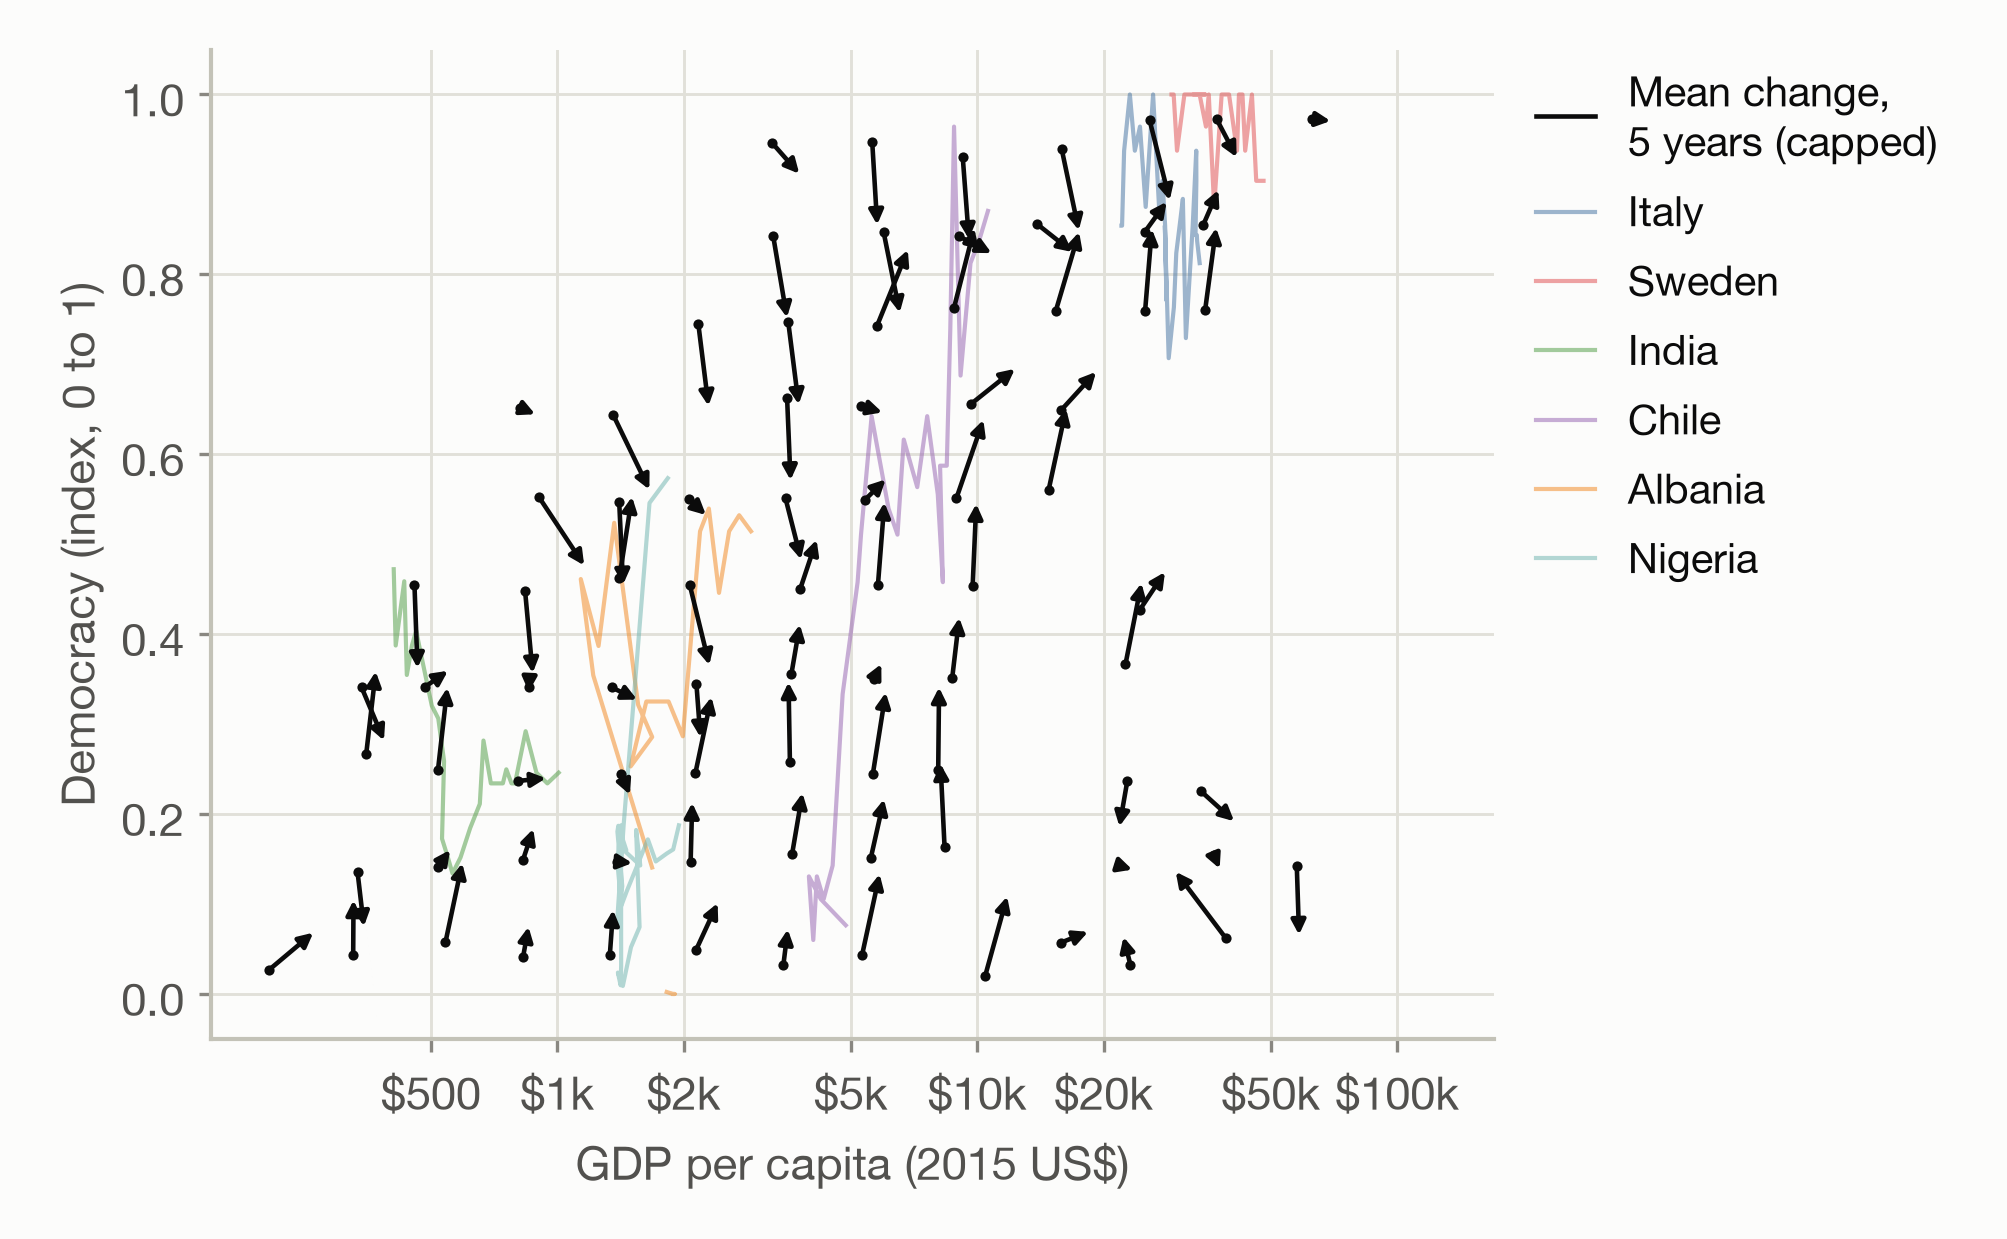
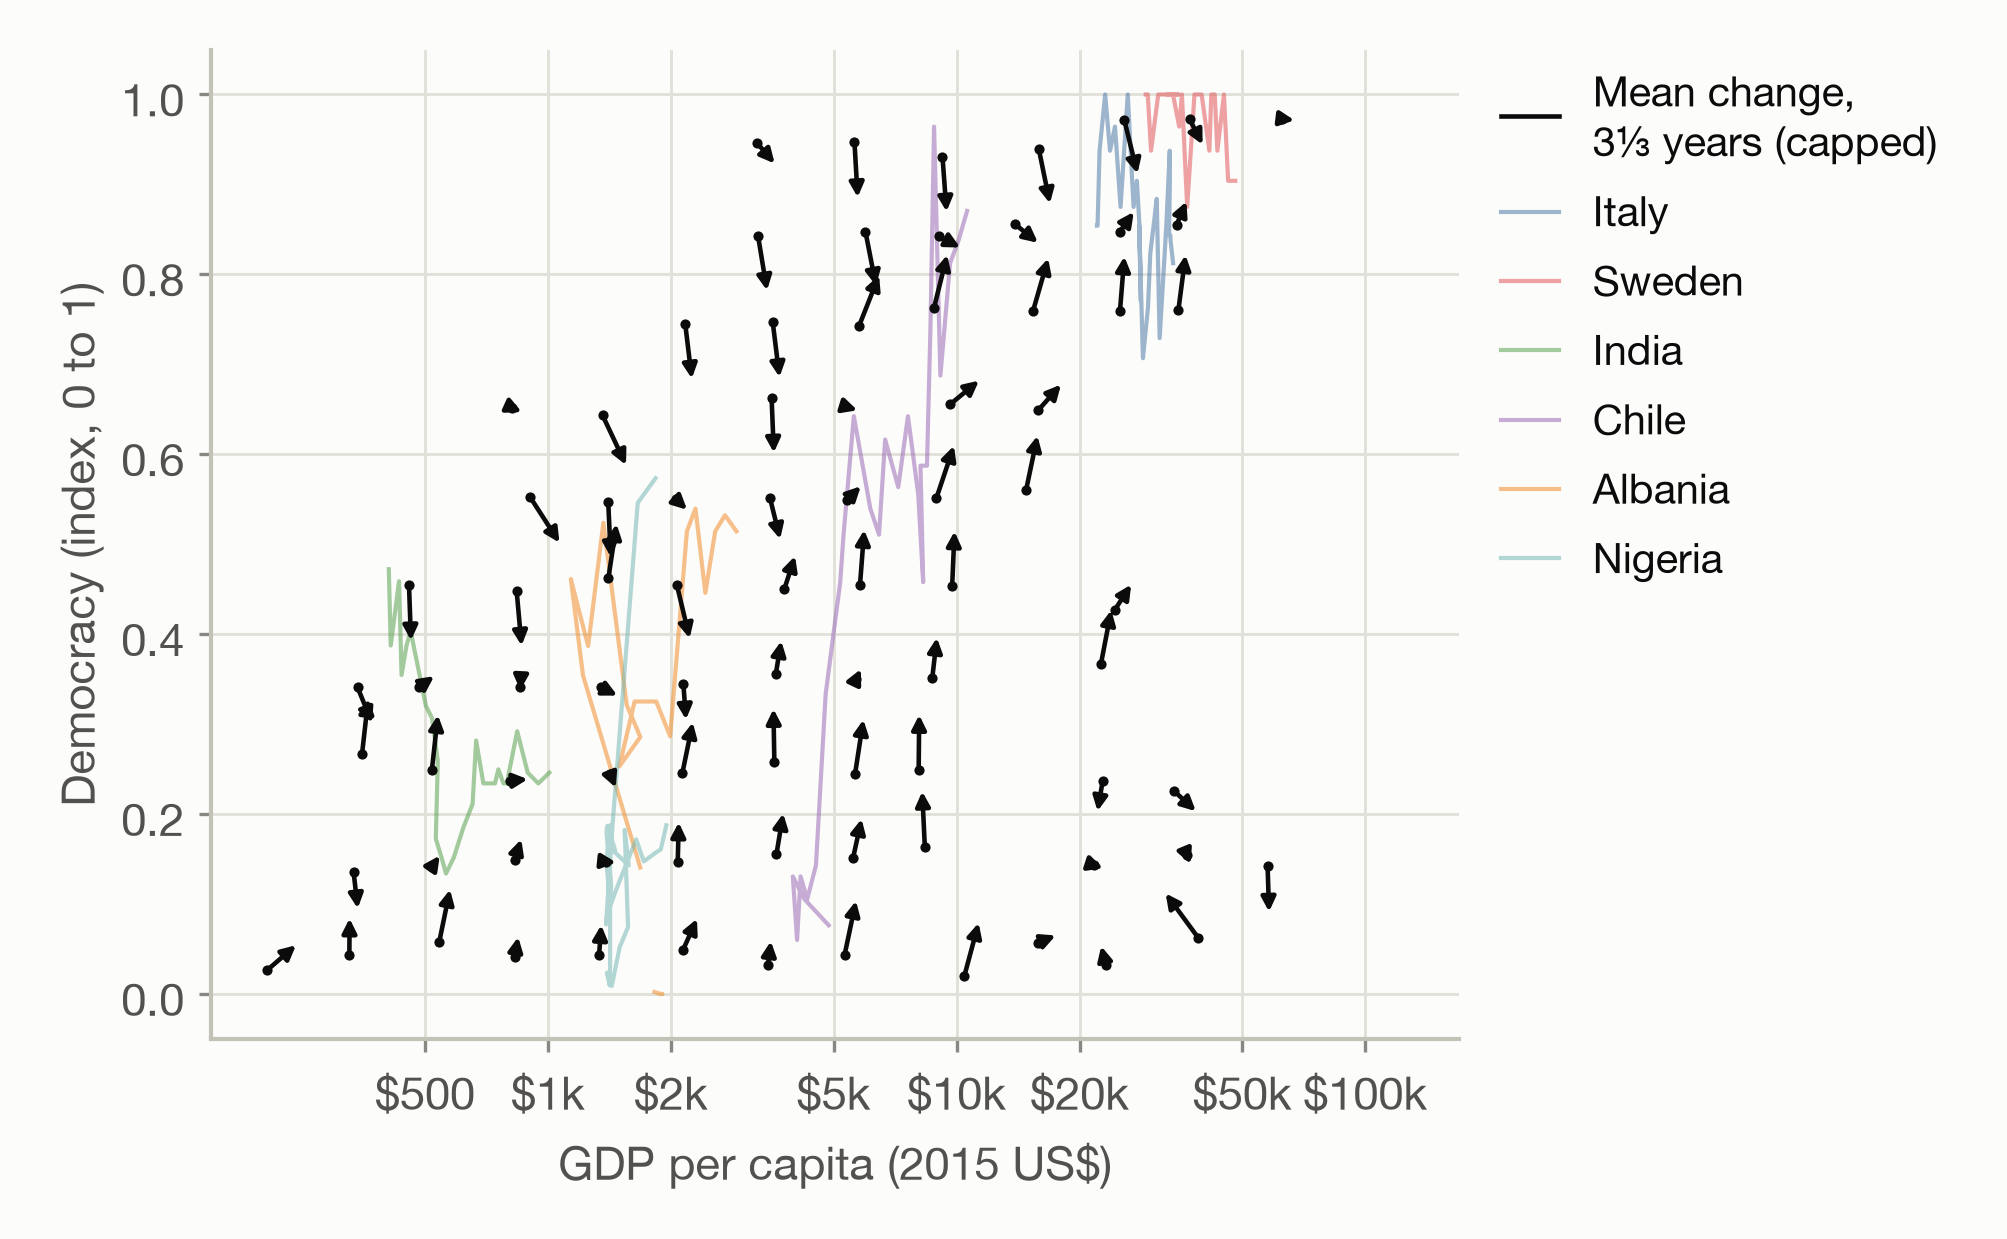
Step 3: Figure 3 arrows at two thirds length (3 1/3 years, cap 0.47 cm)

diff --git a/Code/05_fig_data_phase_portrait.py b/Code/05_fig_data_phase_portrait.py
@@ -23,8 +23,9 @@ from matplotlib.lines import Line2D
 from sds_common import (CM, D_LABEL, G_SCALE, GDP_LABEL, OUT, REP, REP_COLOUR,
                         YEARS, USD_XLIM, dollar_axis, load_panel, save, style)
 
-K = 5          # arrow = average yearly change x K years
-CAP_CM = 0.7   # maximum drawn arrow length, cm on the page (~ one grid cell); longer
+LENGTH = 2 / 3  # user: two thirds of the 5-year, 0.7 cm version (locked format)
+K = 5 * LENGTH  # arrow = average yearly change x K years (3 1/3)
+CAP_CM = 0.7 * LENGTH  # maximum drawn arrow length, cm on the page (~ one grid cell); longer
                # arrows are shortened to this length with their direction unchanged
 MIN_N = 10     # minimum observed changes for a cell to get an arrow
 G_EDGES = np.arange(0.42, 1.00 + 1e-9, 0.04)   # G = ln(GDP)/12; 0.04 in G = x1.62 in GDP
@@ -48,7 +49,7 @@ counts = [
     f"grid: {len(G_EDGES)-1} G bins of 0.04 x {len(D_EDGES)-1} D bins of 0.1",
     f"occupied cells: {len(cells)}; cells with >= {MIN_N} changes (arrows): {len(shown)}",
     f"changes in cells with arrows: {int(shown.n.sum())} of {len(ch)}",
-    f"arrow scale K = {K} years",
+    f"arrow scale K = {K:.4f} years",
     f"mean yearly dD over all changes: {ch.dD.mean():.4f}; mean yearly dG: {ch.dG.mean():.5f}"
     f" (= {100*(np.exp(G_SCALE*ch.dG.mean())-1):.2f}% GDP growth per year)",
 ]
@@ -72,7 +73,7 @@ for theme_name in ("light", "dark"):
     ax.set_ylabel(D_LABEL)
     handles, labels = ax.get_legend_handles_labels()
     handles = [Line2D([0], [0], color=arrow_col, lw=1.1)] + handles
-    labels = [f"Mean change,\n{K} years (capped)"] + labels
+    labels = ["Mean change,\n3⅓ years (capped)"] + labels
     ax.legend(handles, labels, loc="upper left", bbox_to_anchor=(1.02, 1.0),
               frameon=False, handlelength=1.4, borderaxespad=0.0)
     fig.tight_layout()
@@ -99,7 +100,7 @@ for theme_name in ("light", "dark"):
         ax.scatter([x0], [y0], s=6, color=arrow_col, zorder=5, lw=0)
     if theme_name == "light":
         with open(OUT / "05_phase_portrait_counts.txt", "a") as fh:
-            fh.write(f"arrow cap: {CAP_CM} cm on the page; arrows shortened to the cap: "
+            fh.write(f"arrow cap: {CAP_CM:.3f} cm on the page; arrows shortened to the cap: "
                      f"{int(n_capped)} of {len(shown)}\n")
         print(f"capped: {int(n_capped)} of {len(shown)}")
     path = save(fig, "fig3_data_phase_portrait", theme_name)

diff --git a/Appendix.md b/Appendix.md
@@ -176,7 +176,7 @@ Made by `Code/05_fig_data_phase_portrait.py`. Counts from `Code/outputs/05_phase
   - Each arrow starts at the mean $(G, D)$ of the cell's country-years and points along their mean $(\Delta G, \Delta D)$ times $K$.
   - Both components are scaled by the same $K$ in model units, so directions are true on these axes. On the dollar axis the horizontal length is proportional GDP growth.
 - **Choices after the first render.** The first draft used $K = 5$ years and at least 5 changes per cell. Arrows ran through neighbouring cells, and cells with few changes gave erratic averages (for example near \$100k). The cell-average $|\Delta D|$ has median 0.013 and 90th percentile 0.044. With $K = 2$, the 90th percentile arrow is about one cell high (0.09). Raising the minimum from 5 to 10 changes per cell drops 15 cells: from 98 to 83 arrows, and from 3,397 to 3,289 changes represented. Superseded: $K = 5$, at least 5 changes.
-- **Longer, capped arrows (at the user's request).** "The arrows should be longer, but with a max on them. So we can better see the direction." Arrows are now drawn at $K = 5$ years. Any arrow longer than 0.7 cm on the page (about one cell, `CAP_CM`) is shortened to 0.7 cm by one factor applied to both components. The horizontal axis is linear in $G$, so the direction on the page is unchanged. 33 of the 83 arrows are shortened. The cap is measured after layout, in centimetres on the page, so the count depends on the axes' size. Widening the legend label to "(capped)" first narrowed the axes, changing the count from 31 to 29 and making the \$50k and \$100k ticks collide. The label was split over two lines to restore the width (33 capped). Superseded: $K = 2$ with no cap.
+- **Longer, capped arrows (at the user's request).** "The arrows should be longer, but with a max on them. So we can better see the direction." Arrows are now drawn at $K = 5$ years. Any arrow longer than 0.7 cm on the page (about one cell, `CAP_CM`) is shortened to 0.7 cm by one factor applied to both components. The horizontal axis is linear in $G$, so the direction on the page is unchanged. 33 of the 83 arrows are shortened. The cap is measured after layout, in centimetres on the page, so the count depends on the axes' size. Widening the legend label to "(capped)" first narrowed the axes, changing the count from 31 to 29 and making the \$50k and \$100k ticks collide. The label was split over two lines to restore the width (33 capped). Superseded: $K = 2$ with no cap. Then, at the user's request ("two thirds of length and it is perfect"), both the length and the cap were multiplied by 2/3: $K = 3\tfrac13$ years and a cap of 0.467 cm. The same 33 of 83 arrows are capped, because both scale together. This version is locked in the contract (`Report Format`). Superseded: $K = 5$, cap 0.7 cm.
 - **Shared axis range.** Figures 2 and 3 now share a fixed GDP range, \$150 to \$170,000 (`USD_XLIM` in `sds_common.py`), so the two can be laid over each other. The first draft of Figure 3 was cut at the grid edges, and with its longer legend label the \$50k and \$100k ticks collided.
 - **Not used in the report.** Over all changes, the mean yearly change is 0.0023 in democracy and 0.00141 in $G$, which is 1.70% growth in GDP per capita a year.
 
@@ -203,6 +203,7 @@ Made by `Code/05_fig_data_phase_portrait.py`. Counts from `Code/outputs/05_phase
 | 15 | Step 3. At the user's request, dropped the mean from Figures 1 and 2: "We don't need it". A contract change locks the figure format: no mean, the user's style in the workspace themes, dollar log axes, axis labels with units, the legend off the data. Figures 1 and 2 and their scripts are the reference. It also adds "always use units when available". Figures redrawn; the `Results` paragraph and captions updated. | `instructions.md`; Figures 1–2; `Report.md` |
 | 16 | Step 3. Made Figure 3, the data phase portrait: cell-average yearly changes on a 14 × 10 grid, arrows scaled to 2 years, cells with at least 10 changes (83 cells, 3,289 of 3,423 changes). It was redrawn once after inspection (first draft: 5 years, at least 5 changes). Figures 2 and 3 now share a fixed GDP range. Added to `Results` with a reading paragraph and caption. | `Code/05_fig_data_phase_portrait.py`; `Report.md` `Results` |
 | 17 | Step 3. At the user's request, made the arrows in Figure 3 longer, with a cap: 5 years, capped at 0.7 cm on the page with direction kept; 33 of 83 capped. Caption and reading paragraph updated. | `Code/05_fig_data_phase_portrait.py`; `Report.md` |
+| 18 | Step 3. Arrows set to two thirds of that length (3⅓ years, capped at 0.47 cm; 33 of 83 capped), and the arrow format locked in the contract for both phase portraits. | `instructions.md`; `Code/05_fig_data_phase_portrait.py`; `Report.md` |
 
 ## Code Summary
 
@@ -213,7 +214,7 @@ Made by `Code/05_fig_data_phase_portrait.py`. Counts from `Code/outputs/05_phase
 | `Code/02_build_panel.py` | Applies the step 1 decisions and builds the panel: countries only, −99 set to missing, join on ISO3, $G = \ln(\text{GDP})/12$, 1981–2006, consecutive-year changes, and the balanced-country flag. Fits nothing. Run with `cd Code && uv run python 02_build_panel.py`. | Both source files, as above | `Code/outputs/panel.csv` (gitignored: row-level QoG data); `Code/outputs/02_panel_counts.txt` |
 | `Code/03_fig_trajectories_time.py` | Figure 1: democracy and GDP per capita (dollars, log axis) against year for the six countries. Light and dark. | `Code/outputs/panel.csv` | `Code/outputs/figures/fig1_trajectories_time.png`, `…/dark/…` |
 | `Code/04_fig_trajectories_plane.py` | Figure 2: the six countries' paths in the GDP–democracy plane (dollars, log axis), over all countries in 2006. Light and dark. | `Code/outputs/panel.csv` | `Code/outputs/figures/fig2_trajectories_plane.png`, `…/dark/…` |
-| `Code/05_fig_data_phase_portrait.py` | Figure 3: cell-average observed yearly changes as arrows on the GDP–democracy plane, with the six countries' paths faint. Parameters: `K = 5` (arrow years), `CAP_CM = 0.7` (maximum arrow length on the page, direction kept), `MIN_N = 10` (minimum changes per cell), $G$ bins of 0.04 from 0.42 to 1.00, $D$ bins of 0.1. | `Code/outputs/panel.csv` | `Code/outputs/figures/fig3_data_phase_portrait.png`, `…/dark/…`; `Code/outputs/05_phase_cells.csv`; `Code/outputs/05_phase_portrait_counts.txt` |
+| `Code/05_fig_data_phase_portrait.py` | Figure 3: cell-average observed yearly changes as arrows on the GDP–democracy plane, with the six countries' paths faint. Parameters: `LENGTH = 2/3`, giving `K = 5 × 2/3 = 3⅓` (arrow years) and `CAP_CM = 0.7 × 2/3 ≈ 0.467` (maximum arrow length on the page, direction kept), `MIN_N = 10` (minimum changes per cell), $G$ bins of 0.04 from 0.42 to 1.00, $D$ bins of 0.1. | `Code/outputs/panel.csv` | `Code/outputs/figures/fig3_data_phase_portrait.png`, `…/dark/…`; `Code/outputs/05_phase_cells.csv`; `Code/outputs/05_phase_portrait_counts.txt` |
 
 Run order: `01_describe_data.py` (description only), then `02_build_panel.py`, then the figure scripts in any order. The scripts in `Code/` import `sds_common.py` from their own directory, so they are run without Python's isolated mode (`-I`). No downloaded file is on the import path.
 

diff --git a/Report.md b/Report.md
@@ -34,11 +34,11 @@ Figures 1 and 2 show the same data in two ways. Figure 1 plots each variable aga
 
 <small><b>Figure 2.</b> Democracy, <em>D</em>, against GDP per capita in constant 2015 US dollars on a logarithmic scale. Grey points are the 181 countries with both variables in 2006. Coloured lines are the paths of the six countries in Figure 1 from 1981 to 2006, with a filled circle at 1981.</small>
 
-Figure 3 summarises all 3,423 observed yearly changes on the same axes as Figure 2. The plane is divided into a grid of cells, and each arrow stands for the country-years in one cell. It starts at their average position and points along their average yearly change, drawn over five years so that its direction is easy to see. The longest arrows are shortened to a maximum length, about one cell, with their direction unchanged. An arrow pointing up is a cell in which democracy rose on average. An arrow pointing right is a cell in which GDP per capita grew, and because the GDP axis is logarithmic, the arrow's horizontal length is proportional growth.
+Figure 3 summarises all 3,423 observed yearly changes on the same axes as Figure 2. The plane is divided into a grid of cells, and each arrow stands for the country-years in one cell. It starts at their average position and points along their average yearly change, drawn over 3⅓ years so that its direction is easy to see. The longest arrows are shortened to a maximum length, with their direction unchanged. An arrow pointing up is a cell in which democracy rose on average. An arrow pointing right is a cell in which GDP per capita grew, and because the GDP axis is logarithmic, the arrow's horizontal length is proportional growth.
 
 ![Figure 3](Code/outputs/figures/fig3_data_phase_portrait.png)
 
-<small><b>Figure 3.</b> Observed yearly changes in democracy and GDP per capita (constant 2015 US dollars, logarithmic scale), averaged within cells of a grid. Each cell spans a factor of about 1.6 in GDP per capita and 0.1 in democracy. Each arrow starts at the average position of the country-years in its cell, marked by a dot, and points along their average yearly change. Arrows are drawn at five times the yearly change, and the 33 longest are shortened to 0.7 cm, about one cell, with their direction unchanged; the shortening is equal for both components, so directions are as observed. Cells with fewer than 10 yearly changes have no arrow; the 83 cells with arrows hold 3,289 of the 3,423 changes. Faint lines are the paths of the six countries in Figures 1 and 2.</small>
+<small><b>Figure 3.</b> Observed yearly changes in democracy and GDP per capita (constant 2015 US dollars, logarithmic scale), averaged within cells of a grid. Each cell spans a factor of about 1.6 in GDP per capita and 0.1 in democracy. Each arrow starts at the average position of the country-years in its cell, marked by a dot, and points along their average yearly change. Arrows are drawn at 3⅓ times the yearly change, and the 33 longest are shortened to 0.47 cm, with their direction unchanged. Cells with fewer than 10 yearly changes have no arrow; the 83 cells with arrows hold 3,289 of the 3,423 changes. Faint lines are the paths of the six countries in Figures 1 and 2.</small>
 
 ## Discussion
 
